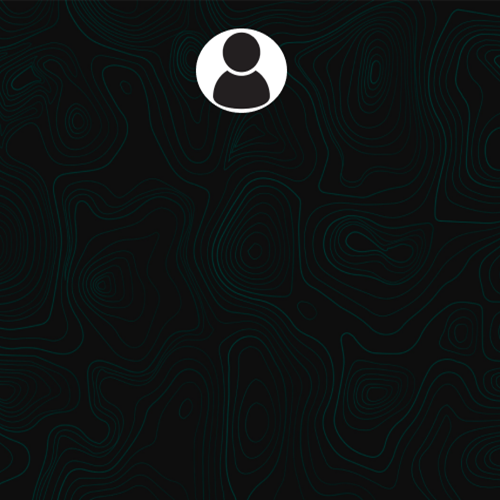
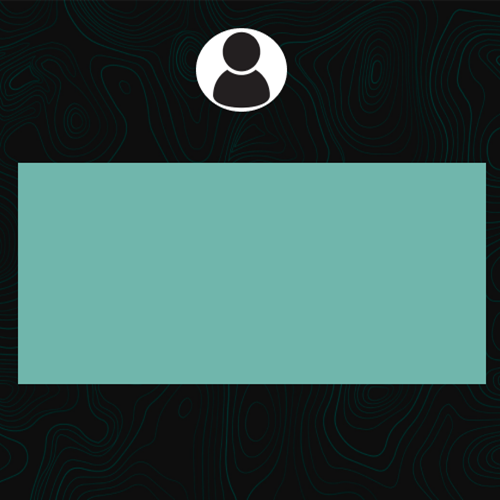
update information added

diff --git a/profile.py b/profile.py
@@ -14,11 +14,18 @@ def profile_infos(data):
     full_name = data[0][1]
     phone_number = data[0][2]
     email = data[0][3]
+    passw = data[0][4]
+    Label(root,text=user_name, fg='white',bg='black',font=('Trebuchet MS', 23)).place(x=215,y=120,height=23)
 
-    Label(root,text=user_name).place(x=169,y=129)
-    Label(root,text=full_name).place(x=169,y=170)
-    Label(root,text=phone_number).place(x=169,y=210)
-    Label(root,text=email).place(x=169,y=280)
+    Label(root,text='full_name', fg='black',bg='#70B6AC', font=('Trebuchet MS', 15)).place(x=20,y=170,height=23)
+    Label(root,text=full_name, fg='black',bg='#70B6AC',font=('Trebuchet MS', 15)).place(x=150,y=170,height=23)
+
+    Label(root,text='phone number', fg='black',bg='#70B6AC', font=('Trebuchet MS', 15)).place(x=20,y=210,height=23)
+    Label(root,text=phone_number, fg='black',bg='#70B6AC',font=('Trebuchet MS', 15)).place(x=150,y=210,height=23)
+
+    Label(root,text='email', fg='black',bg='#70B6AC',font=('Trebuchet MS', 15)).place(x=20,y=250,height=23)
+    Label(root,text=email, fg='black',bg='#70B6AC', font=('Trebuchet MS', 15)).place(x=150,y=250,height=23)
+
 
 
     def logout():
@@ -29,6 +36,60 @@ def profile_infos(data):
     btn.place(x=290,y=400,height=37)
 
 
+    def change_details():
+        win = Toplevel(root)
+        win.geometry('250x250')
+        win.title("change details")
+        win.config(bg='#70B6AC')
+
+        label_menu = Label(win, text="Select an option:")
+        label_menu.pack(pady=5)
+
+        # Dropdown menu
+        options = ["username", "email", "phone",'password']
+        selected_option = StringVar(win)
+        selected_option.set(options[0])  # Default value
+
+        dropdown = OptionMenu(win, selected_option, *options)
+        dropdown.pack(pady=5)
+
+        # Label for entry box
+        label_entry = Label(win, text="Enter text:")
+        label_entry.pack(pady=5)
+
+        # Entry box
+        entry_box = Entry(win)
+        entry_box.pack(pady=5)
+
+        def submit():
+            chosen_option = selected_option.get()
+            entered_text = entry_box.get()
+            conn=database.makeconnection()
+            c=conn.cursor()
+            c.execute(f'''UPDATE users
+                    SET {chosen_option}=?
+                    WHERE username=? 
+                ''',(entered_text,user_name))
+            conn.commit()
+            conn.close()
+            
+            data=database.get_user(user_name,passw)
+            root.destroy()
+            profile_infos(data)
+
+
+        submit_button = Button(win, text="Submit", command=submit)
+        submit_button.pack(pady=10)
+
+        close_button = Button(win, text="Close", command=win.destroy)
+        close_button.pack(pady=10)
+
+
+    Button(root, text="Change details", command=change_details).place(x=20,y=320)
+
+
         
 
     root.mainloop()
+
+# profile_infos([('a','a','a','a')])

diff --git a/new_main.py b/new_main.py
@@ -159,7 +159,7 @@ def customer_interface():#Function to open customer interface
     c.place(x=30,y=200)
     Button(frame, width=39, pady=0, text='LOGIN', bg='black', fg='white', border=1,command=submit).place(x=35,y=230)
     Label(frame,text="don't have an account?",bg='#70B6AC', font=('Trebuchet MS', 11,)).place(x=45,y=260)
-    Button(frame, width=5,padx=0, pady=0, text='signup', bg='#70B6AC', fg='black', border=0,command=signup).place(x=205,y=265)
+    Button(frame, width=5,padx=0, pady=0, text='signup', bg='#70B6AC', fg='black', border=0,command=signup).place(x=45,y=260)
 
 
 
